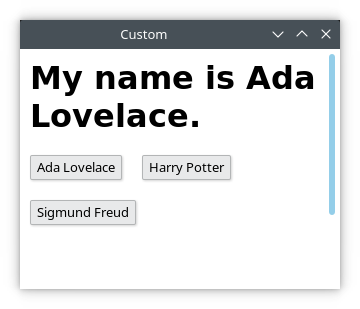
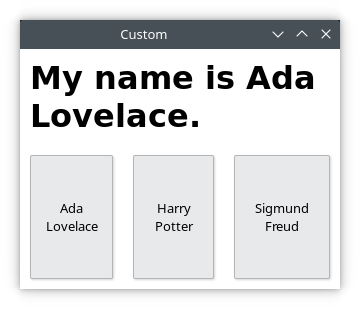
Resolved bug in css

diff --git a/src/www/app.css b/src/www/app.css
@@ -3,8 +3,6 @@ body {
 }
 
 #app {
-    display: flex;
-    flex-direction: column;
     width: 100%;
     height: 100vh;
 }
